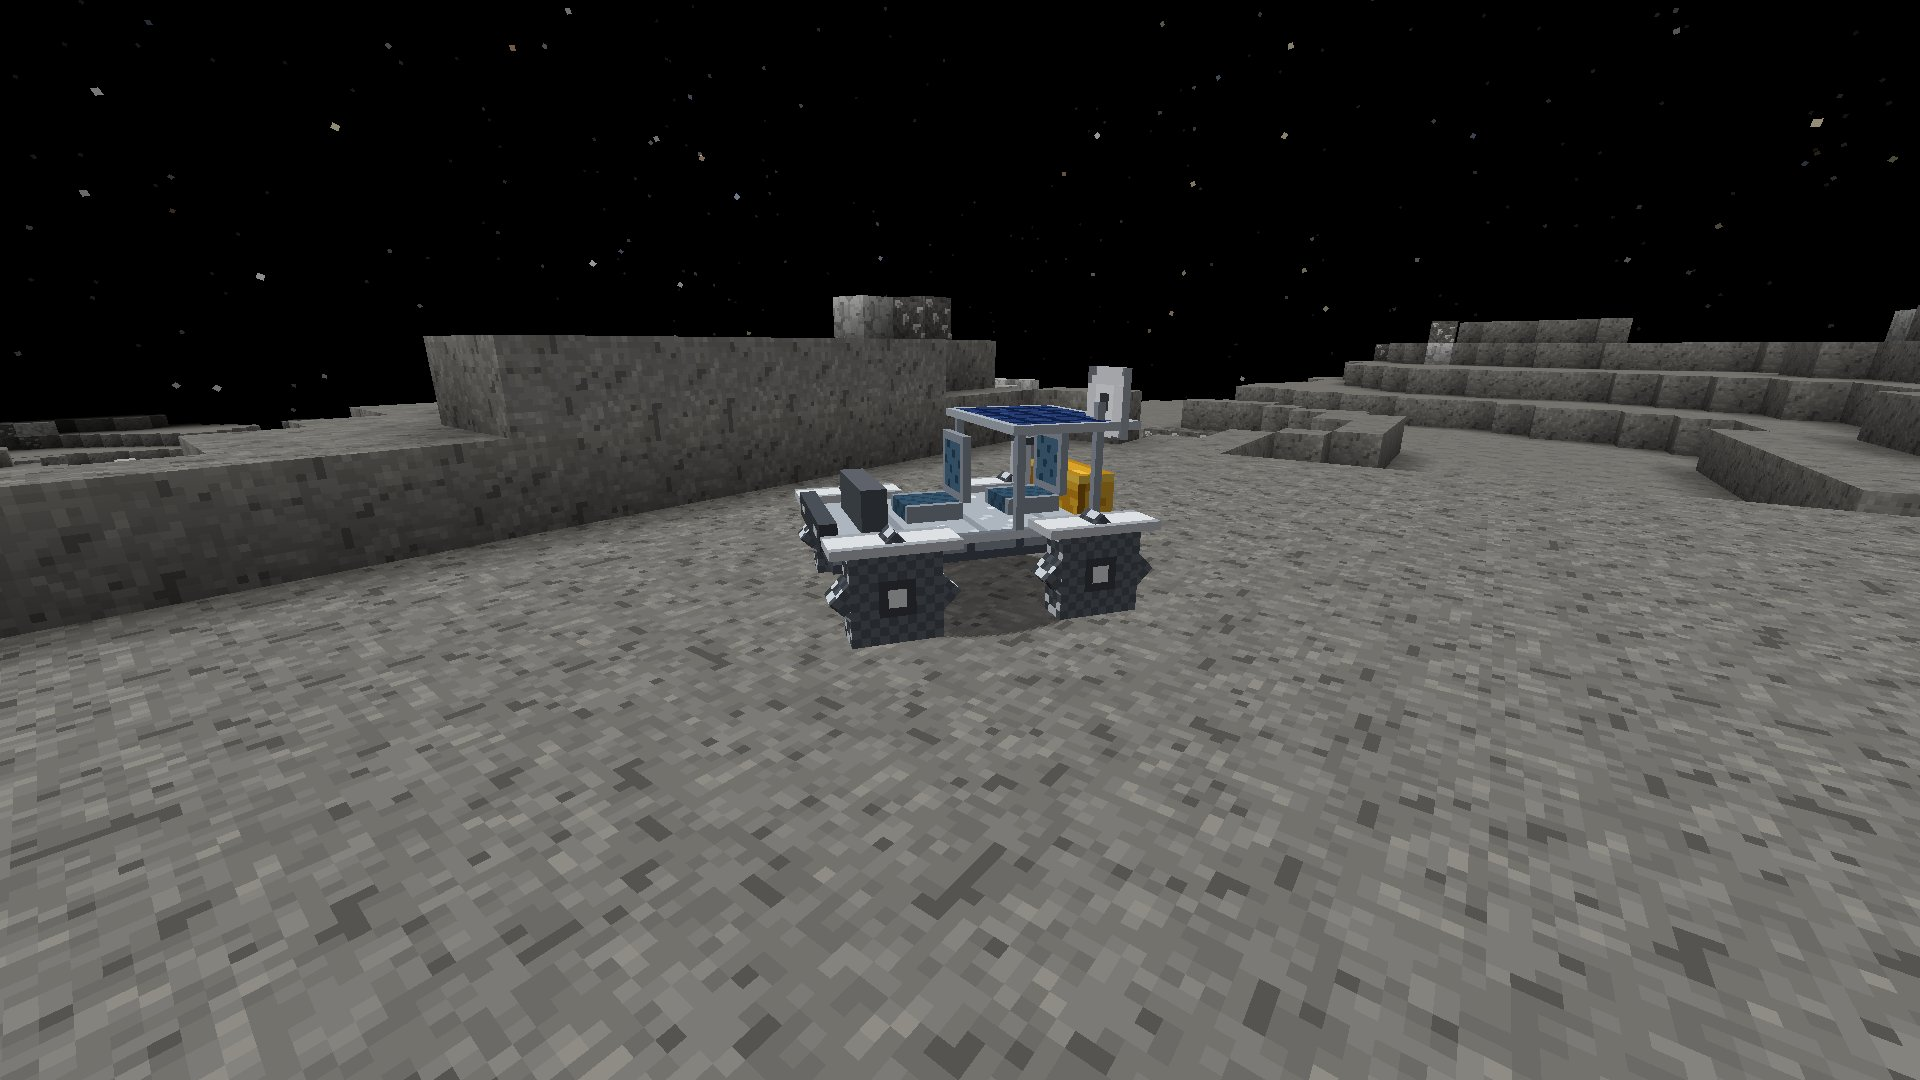
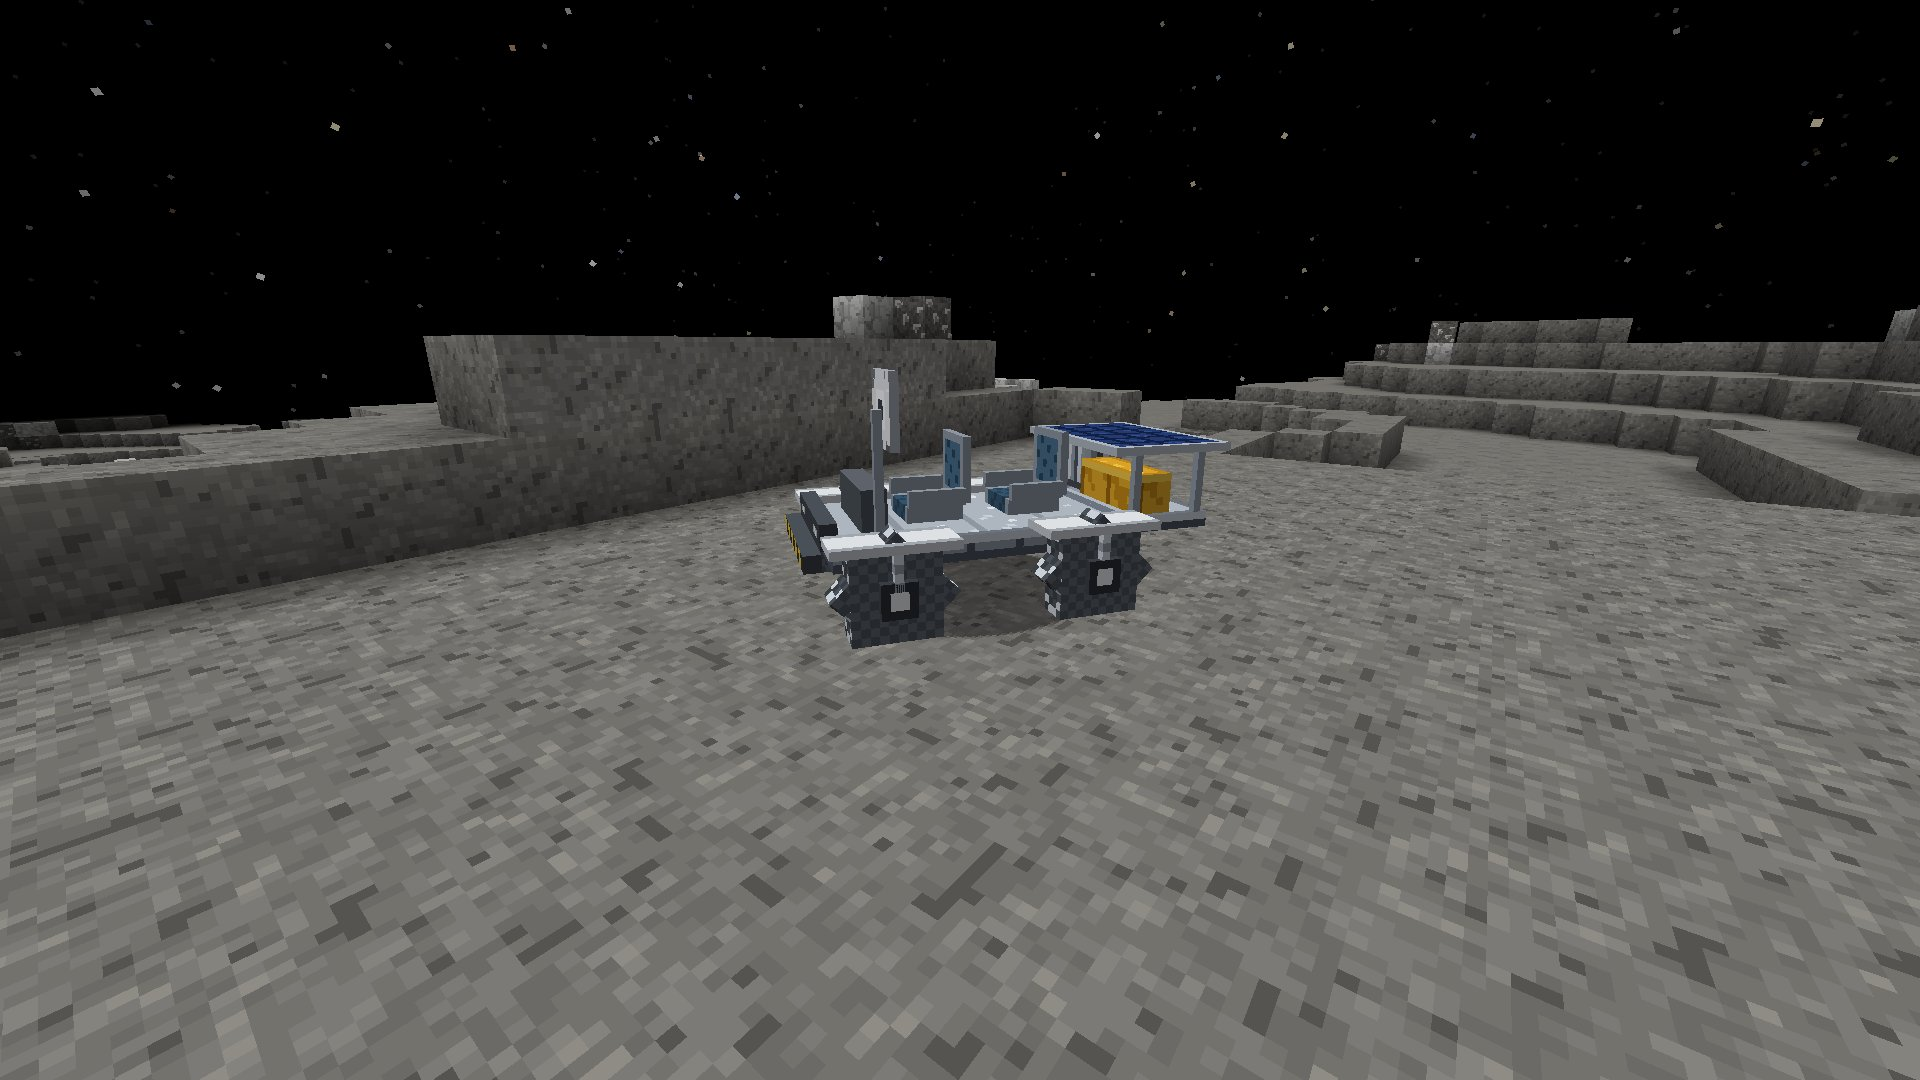
Move the rover's solar panel off the passenger onto a rear deck and add hub motors, dampers, armrests and a bumper

Changed region(s): [[0.4062, 0.3361, 0.6562, 0.55]]

diff --git a/src/main/java/com/pizzaparker07/spacebreaker/client/vehicles/RoverModel.java b/src/main/java/com/pizzaparker07/spacebreaker/client/vehicles/RoverModel.java
@@ -16,8 +16,9 @@ import net.minecraft.util.Mth;
 
 /**
  * Open two-seat rover in the spirit of the crewed lunar rovers: a flat aluminium chassis on four wire-mesh wheels with
- * fenders, tandem seats, a console with headlights at the front, a cargo box, a high-gain antenna mast, and the
- * optional roof solar panel and rear RTG. Front is model -Z; the ground is model y = 24. UVs: tools/textures/modules/rover.py.
+ * fenders, hub motors and dampers, tandem seats with armrests, a console with headlights and the high-gain antenna at
+ * the front, and a rear deck carrying the cargo box, the optional RTG and, on posts above them and clear of the
+ * passenger, the optional solar panel. Front is model -Z; the ground is model y = 24. UVs: tools/textures/modules/rover.py.
  */
 public class RoverModel extends EntityModel<RoverEntity> {
     public static final ModelLayerLocation LAYER = new ModelLayerLocation(Spacebreaker.id("rover"), "main");
@@ -41,29 +42,44 @@ public class RoverModel extends EntityModel<RoverEntity> {
         PartDefinition root = mesh.getRoot();
         PartDefinition body = root.addOrReplaceChild("body", CubeListBuilder.create()
                 .texOffs(0, 0).addBox(-11F, 14F, -18F, 22F, 3F, 36F)                 // chassis deck
+                .texOffs(0, 100).addBox(-10F, 14F, 18F, 20F, 2F, 12F)                // rear deck (cargo and the upgrades)
                 .texOffs(0, 40).addBox(-4F, 12F, -8F, 8F, 2F, 7F)                    // driver seat
                 .texOffs(0, 50).addBox(-4F, 4F, -1F, 8F, 8F, 1F)
+                .texOffs(90, 100).addBox(-5F, 10F, -8F, 1F, 2F, 7F)                  // driver armrests
+                .texOffs(90, 100).addBox(4F, 10F, -8F, 1F, 2F, 7F)
                 .texOffs(0, 40).addBox(-4F, 12F, 5F, 8F, 2F, 7F)                     // passenger seat
                 .texOffs(0, 50).addBox(-4F, 4F, 12F, 8F, 8F, 1F)
+                .texOffs(90, 100).addBox(-5F, 10F, 5F, 1F, 2F, 7F)                   // passenger armrests
+                .texOffs(90, 100).addBox(4F, 10F, 5F, 1F, 2F, 7F)
                 .texOffs(32, 40).addBox(-7F, 9F, -14F, 14F, 5F, 3F)                  // console
                 .texOffs(32, 49).addBox(-9F, 12F, -19F, 18F, 3F, 2F)                 // headlight bar
-                .texOffs(72, 56).addBox(-7F, 9F, 13F, 14F, 5F, 5F)                   // cargo box
-                .texOffs(72, 40).addBox(8F, 0F, 14F, 1F, 14F, 1F)                    // antenna mast
-                .texOffs(78, 40).addBox(4.5F, -4F, 15F, 8F, 8F, 1F),                 // high-gain dish
+                .texOffs(0, 114).addBox(-10F, 15F, -21F, 20F, 2F, 2F)                // front bumper
+                .texOffs(72, 56).addBox(-5F, 9F, 20F, 14F, 5F, 5F)                   // cargo box, on the rear deck
+                .texOffs(72, 40).addBox(9F, 0F, -13F, 1F, 14F, 1F)                   // antenna mast, beside the console
+                .texOffs(78, 40).addBox(5.5F, -4F, -12F, 8F, 8F, 1F),                // high-gain dish
                 PartPose.ZERO);
         for (int s = -1; s <= 1; s += 2) {
             for (int a = -1; a <= 1; a += 2) {
-                body.addOrReplaceChild("fender_" + (s < 0 ? "l" : "r") + (a < 0 ? "f" : "b"), CubeListBuilder.create()
+                String n = (s < 0 ? "l" : "r") + (a < 0 ? "f" : "b");
+                body.addOrReplaceChild("fender_" + n, CubeListBuilder.create()
                         .texOffs(30, 60).addBox(-3F, 0F, -7F, 6F, 1F, 14F), PartPose.offset(13F * s, 13F, 12F * a));
+                // suspension leg: a damper from the fender down to the hub motor on the outside of the wheel
+                body.addOrReplaceChild("strut_" + n, CubeListBuilder.create()
+                        .texOffs(84, 100).addBox(-0.5F, 0F, -0.5F, 1F, 4F, 1F), PartPose.offset(15.5F * s, 14F, 12F * a));
+                body.addOrReplaceChild("hub_" + n, CubeListBuilder.create()
+                        .texOffs(72, 100).addBox(-0.5F, -2F, -2F, 1F, 4F, 4F), PartPose.offset(15.5F * s, 19F, 12F * a));
             }
         }
-        body.addOrReplaceChild("solar", CubeListBuilder.create()
-                .texOffs(0, 82).addBox(-12F, 2F, 2F, 24F, 1F, 16F)
-                .texOffs(72, 40).addBox(-11F, 3F, 3F, 1F, 11F, 1F)
-                .texOffs(72, 40).addBox(10F, 3F, 3F, 1F, 11F, 1F)
-                .texOffs(72, 40).addBox(-11F, 3F, 16F, 1F, 11F, 1F), PartPose.ZERO);
+        // the solar panel rides flat on posts over the rear deck, behind the passenger's head
+        CubeListBuilder solar = CubeListBuilder.create().texOffs(0, 82).addBox(-12F, 5F, 15F, 24F, 1F, 16F);
+        for (float px : new float[]{-10F, 9F}) {
+            for (float pz : new float[]{19F, 28F}) {
+                solar.texOffs(66, 100).addBox(px, 6F, pz, 1F, 8F, 1F);
+            }
+        }
+        body.addOrReplaceChild("solar", solar, PartPose.ZERO);
         body.addOrReplaceChild("rtg", CubeListBuilder.create()
-                .texOffs(82, 82).addBox(-12F, 6F, 12F, 5F, 8F, 5F), PartPose.ZERO);
+                .texOffs(82, 82).addBox(-11F, 6F, 21F, 5F, 8F, 5F), PartPose.ZERO);
         for (int i = 0; i < 4; i++) {
             PartDefinition w = root.addOrReplaceChild("wheel" + i, CubeListBuilder.create()
                     .texOffs(0, 60).addBox(-2F, -5F, -5F, 4F, 10F, 10F), PartPose.offset(WHEELS[i][0], WHEELS[i][1], WHEELS[i][2]));

diff --git a/src/testmod/java/com/pizzaparker07/spacebreaker/testmod/vehicles/RoverTests.java b/src/testmod/java/com/pizzaparker07/spacebreaker/testmod/vehicles/RoverTests.java
@@ -291,6 +291,57 @@ public final class RoverTests {
         h.succeed();
     }
 
+    /**
+     * Two riders: the driver in front, the passenger behind, both on their seats, and the deck solar panel well behind
+     * the passenger's head (it used to stand over the rear seat). Getting off puts each rider beside the rover.
+     */
+    @GameTest(template = "empty", timeoutTicks = 60)
+    public static void twoRidersSitClearOfThePanel(GameTestHelper h) {
+        floor(h, Blocks.STONE.defaultBlockState());
+        RoverEntity rover = spawn(h, new BlockPos(2, 1, 2));
+        rover.installSolar();
+        net.minecraft.world.entity.player.Player driver = h.makeMockPlayer(net.minecraft.world.level.GameType.SURVIVAL);
+        net.minecraft.world.entity.player.Player passenger = h.makeMockPlayer(net.minecraft.world.level.GameType.SURVIVAL);
+        h.assertTrue(driver.startRiding(rover, true) && passenger.startRiding(rover, true), "both get on");
+        h.assertTrue(!h.makeMockPlayer(net.minecraft.world.level.GameType.SURVIVAL).startRiding(rover), "a third does not fit");
+        h.runAfterDelay(2, () -> {
+            h.assertTrue(rover.getControllingPassenger() == driver, "the first rider drives");
+            // rover yaw 0 faces +z: the driver sits ahead of the centre, the passenger behind it
+            double dz = driver.getZ() - rover.getZ();
+            double pz = passenger.getZ() - rover.getZ();
+            h.assertTrue(dz > 0.1 && pz < -0.3, "driver ahead, passenger behind: " + dz + " / " + pz);
+            // the panel starts 15 px behind the centre: the passenger's head (4 px either side) stays clear of it
+            double panelFront = -15 / 16.0;
+            h.assertTrue(pz - 0.25 > panelFront, "passenger's head clear of the panel: " + (pz - 0.25) + " vs " + panelFront);
+            driver.stopRiding();
+            passenger.stopRiding();
+            h.assertTrue(!driver.isPassenger() && !passenger.isPassenger(), "both get off");
+            h.assertTrue(!h.getLevel().getBlockState(driver.blockPosition()).isSuffocating(h.getLevel(), driver.blockPosition()),
+                    "dismounted into free space");
+            h.succeed();
+        });
+    }
+
+    /** One-block steps and slopes do not stop the rover: it climbs onto a raised floor. */
+    @GameTest(template = "empty", timeoutTicks = 120)
+    public static void roverClimbsAOneBlockStep(GameTestHelper h) {
+        for (int z = 0; z < 12; z++) {
+            for (int x = 0; x < 5; x++) {
+                h.setBlock(new BlockPos(x, 0, z), Blocks.STONE);
+                if (z >= 5) {
+                    h.setBlock(new BlockPos(x, 1, z), Blocks.STONE);
+                }
+            }
+        }
+        RoverEntity rover = spawn(h, new BlockPos(2, 1, 1));
+        rover.setEnergy(100_000);
+        h.succeedWhen(() -> {
+            rover.setSpeed(0.25);
+            h.assertTrue(rover.getY() >= h.absolutePos(new BlockPos(2, 2, 7)).getY() - 0.01 && rover.getZ() > h.absolutePos(new BlockPos(2, 2, 6)).getZ(),
+                    "up on the step: y " + rover.getY() + " z " + rover.getZ());
+        });
+    }
+
     private static void floor(GameTestHelper h, BlockState state) {
         for (int z = 0; z < 5; z++) {
             for (int x = 0; x < 5; x++) {

diff --git a/src/testmod/java/com/pizzaparker07/spacebreaker/testmod/showcase/RoverScenario.java b/src/testmod/java/com/pizzaparker07/spacebreaker/testmod/showcase/RoverScenario.java
@@ -113,6 +113,27 @@ final class RoverScenario implements ShowcaseScenario {
         // in the driver's seat with the battery readout
         s.add(new ShowcaseDriver.Shot(w + "_05_driver_view", 0, px, gy + 2, pz, 35F, 12F, false, CameraType.THIRD_PERSON_BACK, 60,
                 at(0.3, p -> p.startRiding(parked, true)), null));
+        // two seats taken (helmeted stand-ins for the crew, sitting like players do), side view: the roof panel must clear their heads
+        s.add(new ShowcaseDriver.Shot(w + "_06_two_seats", 0, px + 3.7, gy + 1.6, pz + 2.6, MoonScenario.yaw(-3.7, -2.6), 8F, true, fp, 60,
+                at(0.3, p -> crew(p.serverLevel())), null));
         return s;
+    }
+
+    private void crew(ServerLevel level) {
+        if (parked.getPassengers().size() >= 2) {
+            return;
+        }
+        // peaceful removes zombies; the stand-ins have no AI and wear helmets, so nothing happens to the scene
+        level.getServer().setDifficulty(net.minecraft.world.Difficulty.EASY, true);
+        for (int i = 0; i < 2; i++) {
+            net.minecraft.world.entity.monster.Zombie stand = net.minecraft.world.entity.EntityType.ZOMBIE.create(level);
+            stand.setNoAi(true);
+            stand.setPersistenceRequired();
+            stand.moveTo(parked.getX(), parked.getY(), parked.getZ());
+            stand.setItemSlot(net.minecraft.world.entity.EquipmentSlot.HEAD, new ItemStack(Items.IRON_HELMET));
+            stand.setItemSlot(net.minecraft.world.entity.EquipmentSlot.CHEST, new ItemStack(Items.IRON_CHESTPLATE));
+            level.addFreshEntity(stand);
+            stand.startRiding(parked, true);
+        }
     }
 }

diff --git a/src/main/java/com/pizzaparker07/spacebreaker/client/vehicles/RoverRenderer.java b/src/main/java/com/pizzaparker07/spacebreaker/client/vehicles/RoverRenderer.java
@@ -73,7 +73,7 @@ public class RoverRenderer extends EntityRenderer<RoverEntity> {
         super.render(rover, yaw, partialTick, pose, buffers, light);
     }
 
-    /** The same dust film as on a solar tracker, laid over the roof panel (model space, y down: its top is y = 2). */
+    /** The same dust film as on a solar tracker, laid over the deck panel (model space, y down: its top is y = 5). */
     private static void roofDust(PoseStack pose, VertexConsumer vc, float dust, float bodyY, int light) {
         net.minecraft.client.renderer.texture.TextureAtlasSprite sprite = Minecraft.getInstance()
                 .getTextureAtlas(net.minecraft.client.renderer.texture.TextureAtlas.LOCATION_BLOCKS)
@@ -81,12 +81,12 @@ public class RoverRenderer extends EntityRenderer<RoverEntity> {
         // the roof cells are small and dark: a thinner film keeps them readable at full cover
         int alpha = Math.round(com.pizzaparker07.spacebreaker.client.machines.SolarPanelRenderer.dustAlpha(dust) * 0.6F * 255);
         PoseStack.Pose last = pose.last();
-        float y = (bodyY + 1.95F) / 16F;
+        float y = (bodyY + 4.95F) / 16F;
         float x0 = -12F / 16F;
         float x1 = 12F / 16F;
         // the 24 x 16 panel takes the 16 px dust tile one and a half times across so the grain keeps its size
-        float zs = 2F / 16F;
-        float ze = 18F / 16F;
+        float zs = 15F / 16F;
+        float ze = 31F / 16F;
         for (int i = 0; i < 2; i++) {
             float a = i == 0 ? x0 : 0F;
             float b = i == 0 ? 0F : x1;

diff --git a/tools/textures/modules/rover.py b/tools/textures/modules/rover.py
@@ -171,6 +171,23 @@ def rtg(face, x, y, fw, fh):
     return (AL[5], AL[3], AL[1])[x % 3] if 0 < y < fh - 1 else W[3]
 
 
+def hub(face, x, y, fw, fh):
+    # hub motor cap: dark housing with a bright bolt circle
+    if face in ('left', 'right'):
+        return AL[6] if (x, y) in ((1, 1), (2, 2), (1, 2), (2, 1)) else ST[1]
+    return ST[2]
+
+
+def strut(face, x, y, fw, fh):
+    return AL[5] if y % 2 == 0 else AL[3]
+
+
+def bumper(face, x, y, fw, fh):
+    if face == 'front':
+        return YELLOW if (x // 2) % 2 == 0 else ST[1]
+    return shade(ST, face, 2)
+
+
 def sheet(glow=False):
     cv = Canvas(128, 128)
     if glow:
@@ -194,6 +211,12 @@ def sheet(glow=False):
     paint(cv, 72, 56, 14, 5, 5, cargo)
     paint(cv, 0, 82, 24, 1, 16, solar)
     paint(cv, 82, 82, 5, 8, 5, rtg)
+    paint(cv, 0, 100, 20, 2, 12, chassis)       # rear deck
+    paint(cv, 66, 100, 1, 8, 1, mast)           # solar panel posts
+    paint(cv, 72, 100, 1, 4, 4, hub)
+    paint(cv, 84, 100, 1, 4, 1, strut)
+    paint(cv, 90, 100, 1, 2, 7, seat)           # armrests
+    paint(cv, 0, 114, 20, 2, 2, bumper)
     return cv
 
 

diff --git a/src/main/java/com/pizzaparker07/spacebreaker/content/vehicles/RoverEntity.java b/src/main/java/com/pizzaparker07/spacebreaker/content/vehicles/RoverEntity.java
@@ -217,6 +217,12 @@ public class RoverEntity extends Entity {
         return true;
     }
 
+    /** The rear deck and the antenna reach past the hitbox: keep the model drawn while any of it is on screen. */
+    @Override
+    public net.minecraft.world.phys.AABB getBoundingBoxForCulling() {
+        return getBoundingBox().inflate(1.2, 0.6, 1.2);
+    }
+
     @Override
     public float maxUpStep() {
         return 1.0F;
